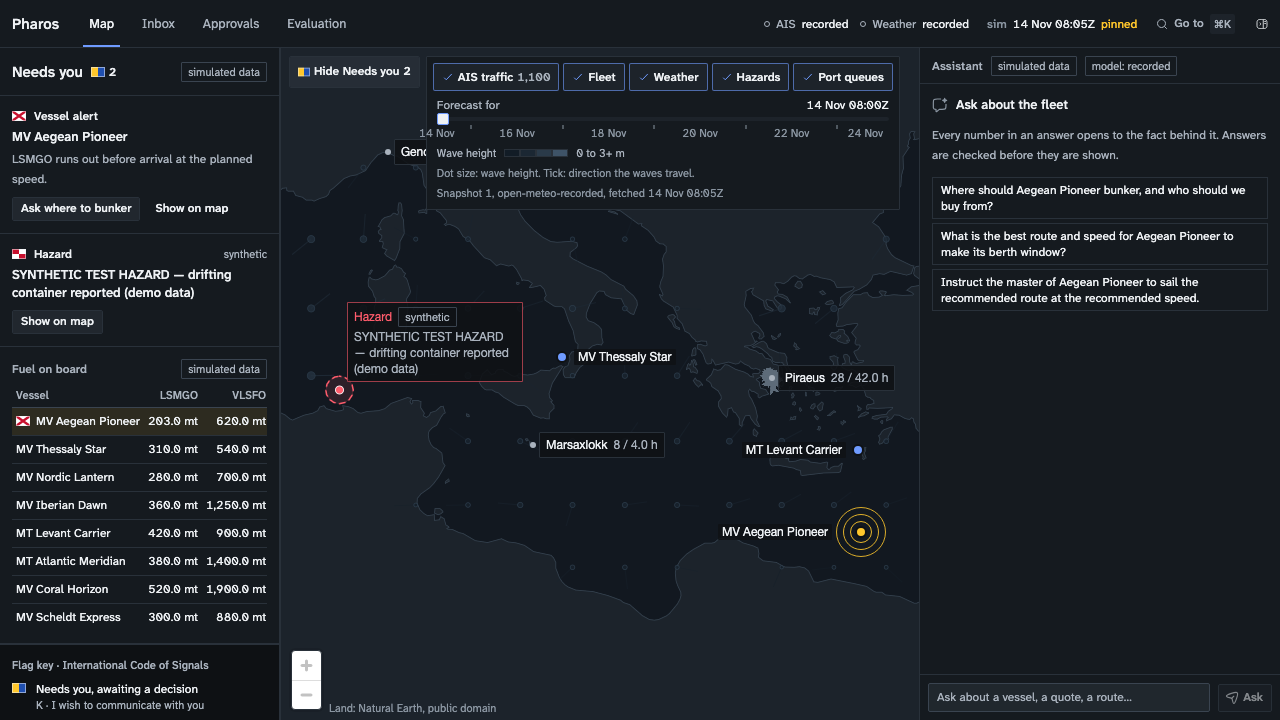
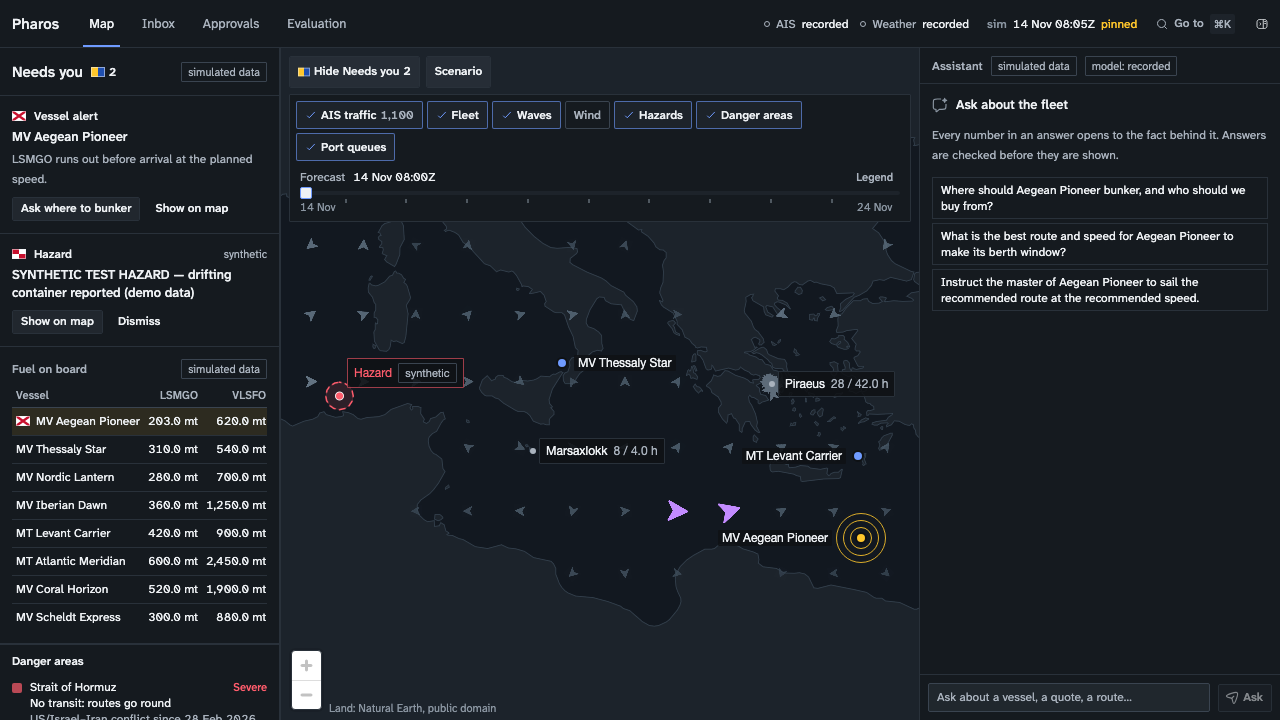
docs: phase 11 gate (demo controls and polish); user guide, demo script, change log, screenshots

diff --git a/docs/MASTER_PLAN.md b/docs/MASTER_PLAN.md
@@ -484,4 +484,6 @@ You add keys to `.env` yourself; I never handle or print them. When a checkpoint
 
 **2026-11-19, Track 3: security, Suez or the Cape (user decisions: "Now expand the map and start planning track 3 for the security… an approval from a quote is needed just like with fuel"; Atlantic Meridian's new voyage Fujairah to Rotterdam; quotes read from emails by the AI; Africa and the Arabian Sea; real sources; "Approve, cap $1.50"; "Yes, they're right"; "Yes, regenerate"):** the map covers Africa and the Arabian Sea and draws six danger areas from cited sources, ranked most-needed first. Each area has a JMIC level and a policy: no transit, armed team, war-risk premium, protective measures or navy escort. A route crossing them carries the hours inside, the armed team its plan picks from the valid security quotes (day rate, fixed fees, minimum days, boarding and leaving ports), the war-risk premium, canal dues and convoy wait, and a route round the Cape of Good Hope (K) is added. Extraction reads a second kind, `security_quote` (`extract-quote/v4`); the agent lists security quotes and proposes security orders (`agent-system/v6`). A voyage instruction through a guarded area waits for its security order, whose approval pushes an ERP service line and drafts the provider's confirmation (never sent). Golden set: 60 security extraction cases (30 dev, 30 held-out) and 4 Q&A security questions (2 dev, 2 held-out; the held-out ones are not run). Dev: security critical fields 234/243, unsafe 0/30; fuel unchanged (649/651); Q&A record pass 25/27, grounded 35/35, unauthorised 0/35. The comparison-06 dev key moved to 2,450 mt (user-approved); held-out keys are byte-identical. Spend $0.19 of $1.50. The plan is `docs/superpowers/plans/2026-11-19-track-3-security.md`.
 
+**2026-11-19, Phase 11: demo controls and polish (user requests: "change characteristics of the demo", "see what actions are taken in each needed port stoppage … and during vessel routing", the route panel's scroll, the map flipping over Portugal, "pointing soft darts" for the weather; answers: a panel in the console; every en-route kind plus provisions restock, with a switch per kind; waves and wind each with a toggle):** a Scenario panel edits the pinned demo (vessels, synthetic hazards, weather areas laid over the forecast when it is read) with one reset that reseeds; the route plan carries a voyage timeline computed in `packages/domain` from the optimiser's own walk, outside `plan_route_speed`'s output (so no replay changed); the basemap is split at the antimeridian (its Eurasia ring had 360° edges the tiler filled inverted at zoom 2.5–4); the tray's body follows its snap; weather is drawn as SDF darts for waves and wind.
+
 **Sources checked:** [AISStream documentation](https://aisstream.io/documentation) · [Open-Meteo Marine API](https://open-meteo.com/en/docs/marine-weather-api) · [searoute-ts](https://www.pkgstats.com/pkg:searoute-ts) · [@ssroute/typescript](https://www.pkgstats.com/pkg:@ssroute/typescript) · [Eurostat searoute](https://github.com/eurostat/searoute) · [Mediterranean sulphur zone (REMPEC)](https://www.rempec.org/en/news-media/rempec-news/effective-application-of-the-med-sox-emission-control-area-under-marpol-annex-vi)

diff --git a/docs/USER_GUIDE.md b/docs/USER_GUIDE.md
@@ -36,9 +36,11 @@ the sea routes are real.
 
 The map is where you see the fleet and plan a voyage.
 
-**Layers.** Switch each on or off: AIS traffic (public ships), Fleet (your vessels), Weather (wave
-height and direction), Hazards, and Port queues (ships at anchor). The forecast slider moves the
-weather overlay through the forecast.
+**Layers.** Switch each on or off: AIS traffic (public ships), Fleet (your vessels), Waves, Wind,
+Hazards, Danger areas and Port queues (ships at anchor). Waves and wind are drawn as darts pointing
+the way they travel; a dart grows and brightens as the sea or the wind gets stronger, and a wave
+dart turns purple at the heavy-weather limit the routing respects (6 m). The forecast slider moves
+both through the forecast; Legend shows the scale.
 
 **Needs you.** The column on the left lists what is waiting: proposals awaiting your decision,
 vessel alerts, and reported hazards. Each has a shortcut, for example "Ask where to bunker" or
@@ -58,6 +60,15 @@ forecast and the reported hazards. The route tray then shows two answers side by
 
 ![The route tray with the recommended plan and the bunker stop on the map](screenshots/phase-6/story-4-route-plan.png)
 
+**Voyage timeline.** Under the plan, the tray lists what the voyage does, in time order: departure,
+each port call with what it does there (bunkers, provisions when they run low, charts and
+publications, sludge or sewage ashore, clearance, port dues; open it for the quantities and costs),
+the fuel changeover at each sulphur-ECA line (it starts an hour before), where holding-tank sewage
+may go overboard (more than 12 nm from land at 4 kn or more), danger areas with the armed team
+boarding and leaving, the storms passed and how far off, the notices due before a call, and the
+arrival with the provisions left. A switch per kind hides what you do not need; the same events are
+pins on the map, and a pin brings its row into view.
+
 Planning stores a calculation. Nothing is sent or changed.
 
 **Propose from the plan.** From a planned route you can propose the purchase order and the voyage
@@ -70,6 +81,15 @@ fuel figures then rest on the ship's reported draught; the console says which lo
 assumed.
 
 Routes are planning-grade. They are not for navigation.
+
+**Demo scenario.** On the pinned demo, the Scenario button beside Needs you opens a panel to change
+the demo world: a fleet vessel's fuel on board, tanks, speeds and consumption, costs and stores; a
+hazard; or weather (wave height and direction, wind speed and direction) over a circle. Type a
+position or use "Pick on map"; the circle shows dashed until you add it. The top bar then says
+"scenario edited", and an open route plan says it was made before the edit, with Plan again.
+"Reset the demo world" puts everything back, chats, approvals and the inbox included. The
+assistant's recorded replies cover the unedited demo only; to ask about an edited world, run
+`LLM_MODE=live npm run demo:reset` (paid model calls).
 
 ## Inbox
 

diff --git a/docs/DEMO_SCRIPT.md b/docs/DEMO_SCRIPT.md
@@ -95,6 +95,16 @@ The same act runs as `e2e/security.spec.ts` (replay; no model call beyond the re
 
 Say: the route is costed with what it takes to sail it safely. Where the threat is missiles, not pirates, guards cannot help: the plan pays the war-risk premium or goes round.
 
+## Optional act: change the world
+
+Run it after the six steps (it moves calculation ids, so the scripted stories need `npm run demo:reset` afterwards).
+
+1. **Timeline.** With Aegean Pioneer's plan open, scroll the tray to "Voyage timeline": the call at Marsaxlokk (open "What the call does"), the ECA exit at Gibraltar and the changeover before the Channel, the sewage windows, the synthetic storm passed. Switch "Sewage discharge" off and on; press a pin on the map.
+2. **Scenario.** Open Scenario (beside Needs you). Lower Aegean Pioneer's LSMGO on board and save: the tray says the plan predates the edit; Plan again shows the new answer. On Weather, pick a point on her track, set 8 m and add it: storm-purple darts appear and the route goes round. Turn on Wind for the wind darts.
+3. **Reset** from the panel (it asks first), or run `npm run demo:reset`.
+
+Say: the planner reads the world as it stands; change the world and every number follows, each still cited.
+
 ## Fallbacks
 
 | Problem | What the console shows | What to do |
